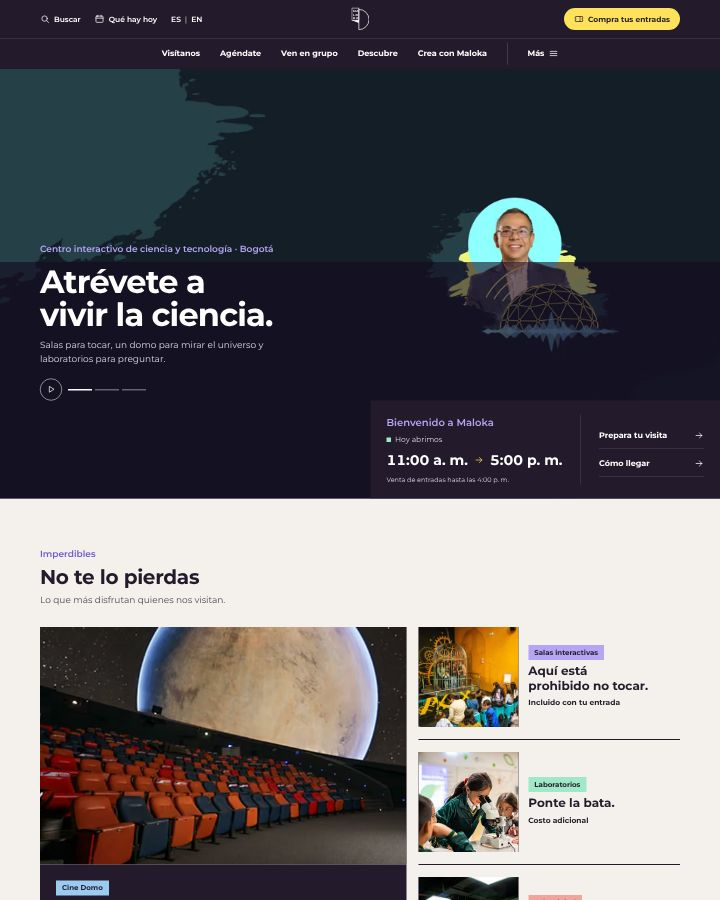
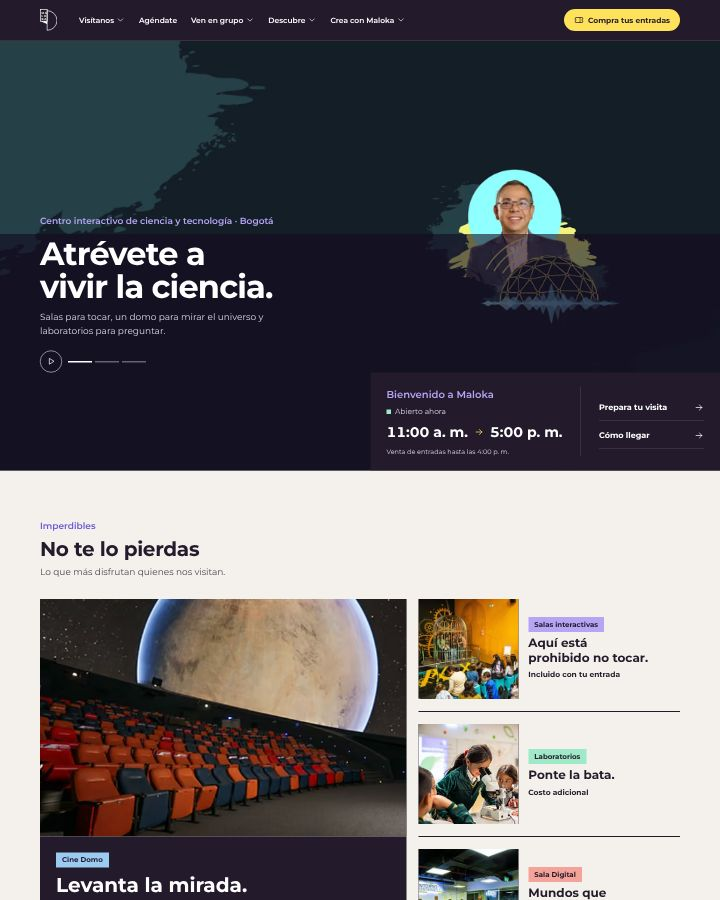
V10–V12: header con la estructura del de V6
Una fila con logo, mega menú al pasar el mouse y el botón de entradas, con los colores del
Design System v3 (iconos en cuadros pastel por sección y horario en un recuadro noche).

Claude-Session: https://claude.ai/code/session_01EFVWw7hx15eVe1tm6XAzSg

diff --git a/README.md b/README.md
@@ -75,13 +75,13 @@ en `src/data/n/home.json`.
 
 | Ruta | Propuesta | Referencia | Cómo se arma en Elementor |
 |---|---|---|---|
-| `/v10` | Noche y luz | louvre.fr, museoreinasofia.es | Header noche en dos niveles; hero a sangre con el panel de horario de hoy abajo a la derecha; «No te lo pierdas» (una grande y tres) en hueso; agenda en noche con filtros; grupos en filas con relleno salmón; «Más por explorar» en Loop Carousel; Crea como un contenedor lavanda que es todo el enlace |
+| `/v10` | Noche y luz | louvre.fr, museoreinasofia.es | Header noche con mega menú (como V6); hero a sangre con el panel de horario de hoy abajo a la derecha; «No te lo pierdas» (una grande y tres) en hueso; agenda en noche con filtros; grupos en filas con relleno salmón; «Más por explorar» en Loop Carousel; Crea como un contenedor lavanda que es todo el enlace |
 | `/v11` | Bloques pastel | vangoghmuseum.nl | Hero partido (bloque amarillo con titular gigante + imagen con zoom lento); carrusel sobre noche; bloques salmón (grupos), menta (Descubre con cifras) y noche (Crea con filas); titulares con barrido al entrar |
 | `/v12` | Explorar | nhm.ac.uk, museoreinasofia.es | Casi sin botones: «No te lo pierdas» como carrusel de fotos grandes con ↗, «Esta semana» en filas con fecha grande y filtros, grupos en carrusel de tarjetas altas sobre noche, Descubre con cifras y filas, Crea en un bloque cielo con enlaces grandes |
 
 | Pieza | Elementor |
 |---|---|
-| `NHeader` (dos niveles + menú completo) | Theme Builder › Header: fila 1 con Búsqueda, enlace «Qué hay hoy», idioma (WPML/Polylang), Logo al centro y un Botón; fila 2 con el widget Menú; «Más» abre un Popup a pantalla completa con Nav Menu y acordeones en móvil |
+| `NHeader` (misma estructura que V6) | Theme Builder › Header: Logo, widget Menú en modo mega menú (cada ítem abre un contenedor a ancho completo con Icon Box en cuadros pastel y el horario en un recuadro noche) y un Botón; ≤ 1200 px, desplegable con acordeones |
 | `NHorario` (horario de hoy) | Contenedor noche en posición absoluta (abajo a la derecha) dentro del hero; el estado «Abierto ahora» va en un widget HTML con el script de hora de Bogotá |
 | `NHero` | Carrusel anidado con fundido y Efectos de movimiento › Entrada; en la variante partida, contenedor de 2 columnas con fondo amarillo |
 | `NCarrusel` + `NCardFoto` | Loop Carousel con una plantilla de Loop Item: imagen de fondo, superposición plana, título y icono ↗; todo el contenedor como enlace |
